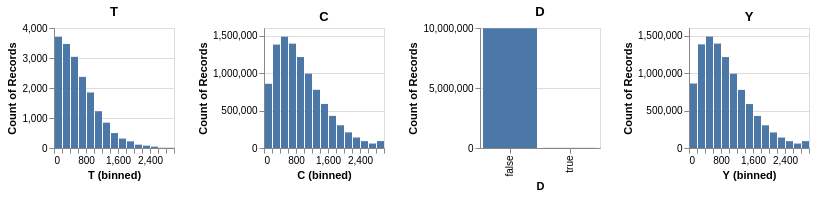
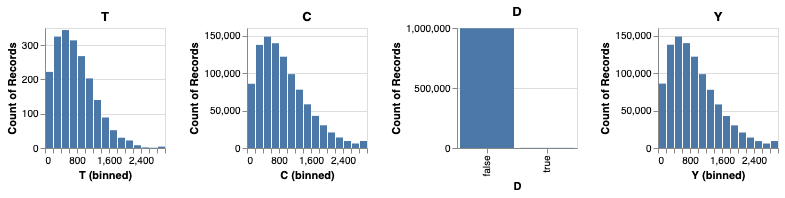
multiplicative noise, adjust shape bias

diff --git a/src/synth.py b/src/synth.py
@@ -23,7 +23,7 @@ DATA_DIR = ROOT_DIR / "data"
 class SynthConfig:
     n_samples: int
     n_features: int
-    noise: bool
+    noise: float  # multiplicative noise on the parameters = 1 + noise * N(0, 1)
     dist_type: type[Distribution]
     param_mapping_type: type[ParamMapping]
     param_transforms: dict[str, Callable]
@@ -64,9 +64,9 @@ def generate_synthetic_data(cfg: SynthConfig):
 
 # %%
 cfg = SynthConfig(
-    n_samples=10_000_000,
+    n_samples=1_000_000,
     n_features=10,
-    noise=True,
+    noise=0.1,
     dist_type=ScaledWeibull,
     param_mapping_type=LinearParamMapping,
     param_transforms={
@@ -80,9 +80,9 @@ cfg = SynthConfig(
         "shape": np.array([0, 0, 0, 0, 1, 1, 1, 0, 0, 0]) / 3,
     },
     biases={
-        "A": -8,  # Increasing A increases P(D)
+        "A": -10,  # Increasing A increases P(D)
         "scale": -0.5,  # Decreasing scale increases P(D)
-        "shape": 0.2,  # Decreasing shape increases P(D)
+        "shape": -0.3,  # Decreasing shape increases P(D)
     },
 )
 
@@ -107,8 +107,8 @@ pct_D = dummy_df.select(pl.col("D").mean()).item()
 print(f"{pct_D:.2%}")
 
 # %%
-# df.write_parquet(DATA_DIR / "synth.parquet")
-# weights_df.write_parquet(DATA_DIR / "synth_weights.parquet")
-# params_df.write_parquet(DATA_DIR / "synth_params.parquet")
+df.write_parquet(DATA_DIR / "synth.parquet")
+weights_df.write_parquet(DATA_DIR / "synth_weights.parquet")
+params_df.write_parquet(DATA_DIR / "synth_params.parquet")
 
 # %%

diff --git a/src/mapping.py b/src/mapping.py
@@ -52,7 +52,7 @@ class LinearParamMapping(ParamMapping):
         if self.bias:
             X = np.hstack([np.ones((X.shape[0], 1)), X])
         param_values = np.dot(X, self.weights)
-        param_values += noise * np.random.randn(*param_values.shape)
+        param_values *= 1 + (noise * np.random.randn(*param_values.shape))
         params = {
             name: f(param_values[:, i])
             for i, (name, f) in enumerate(zip(self.param_names, self.transforms))
